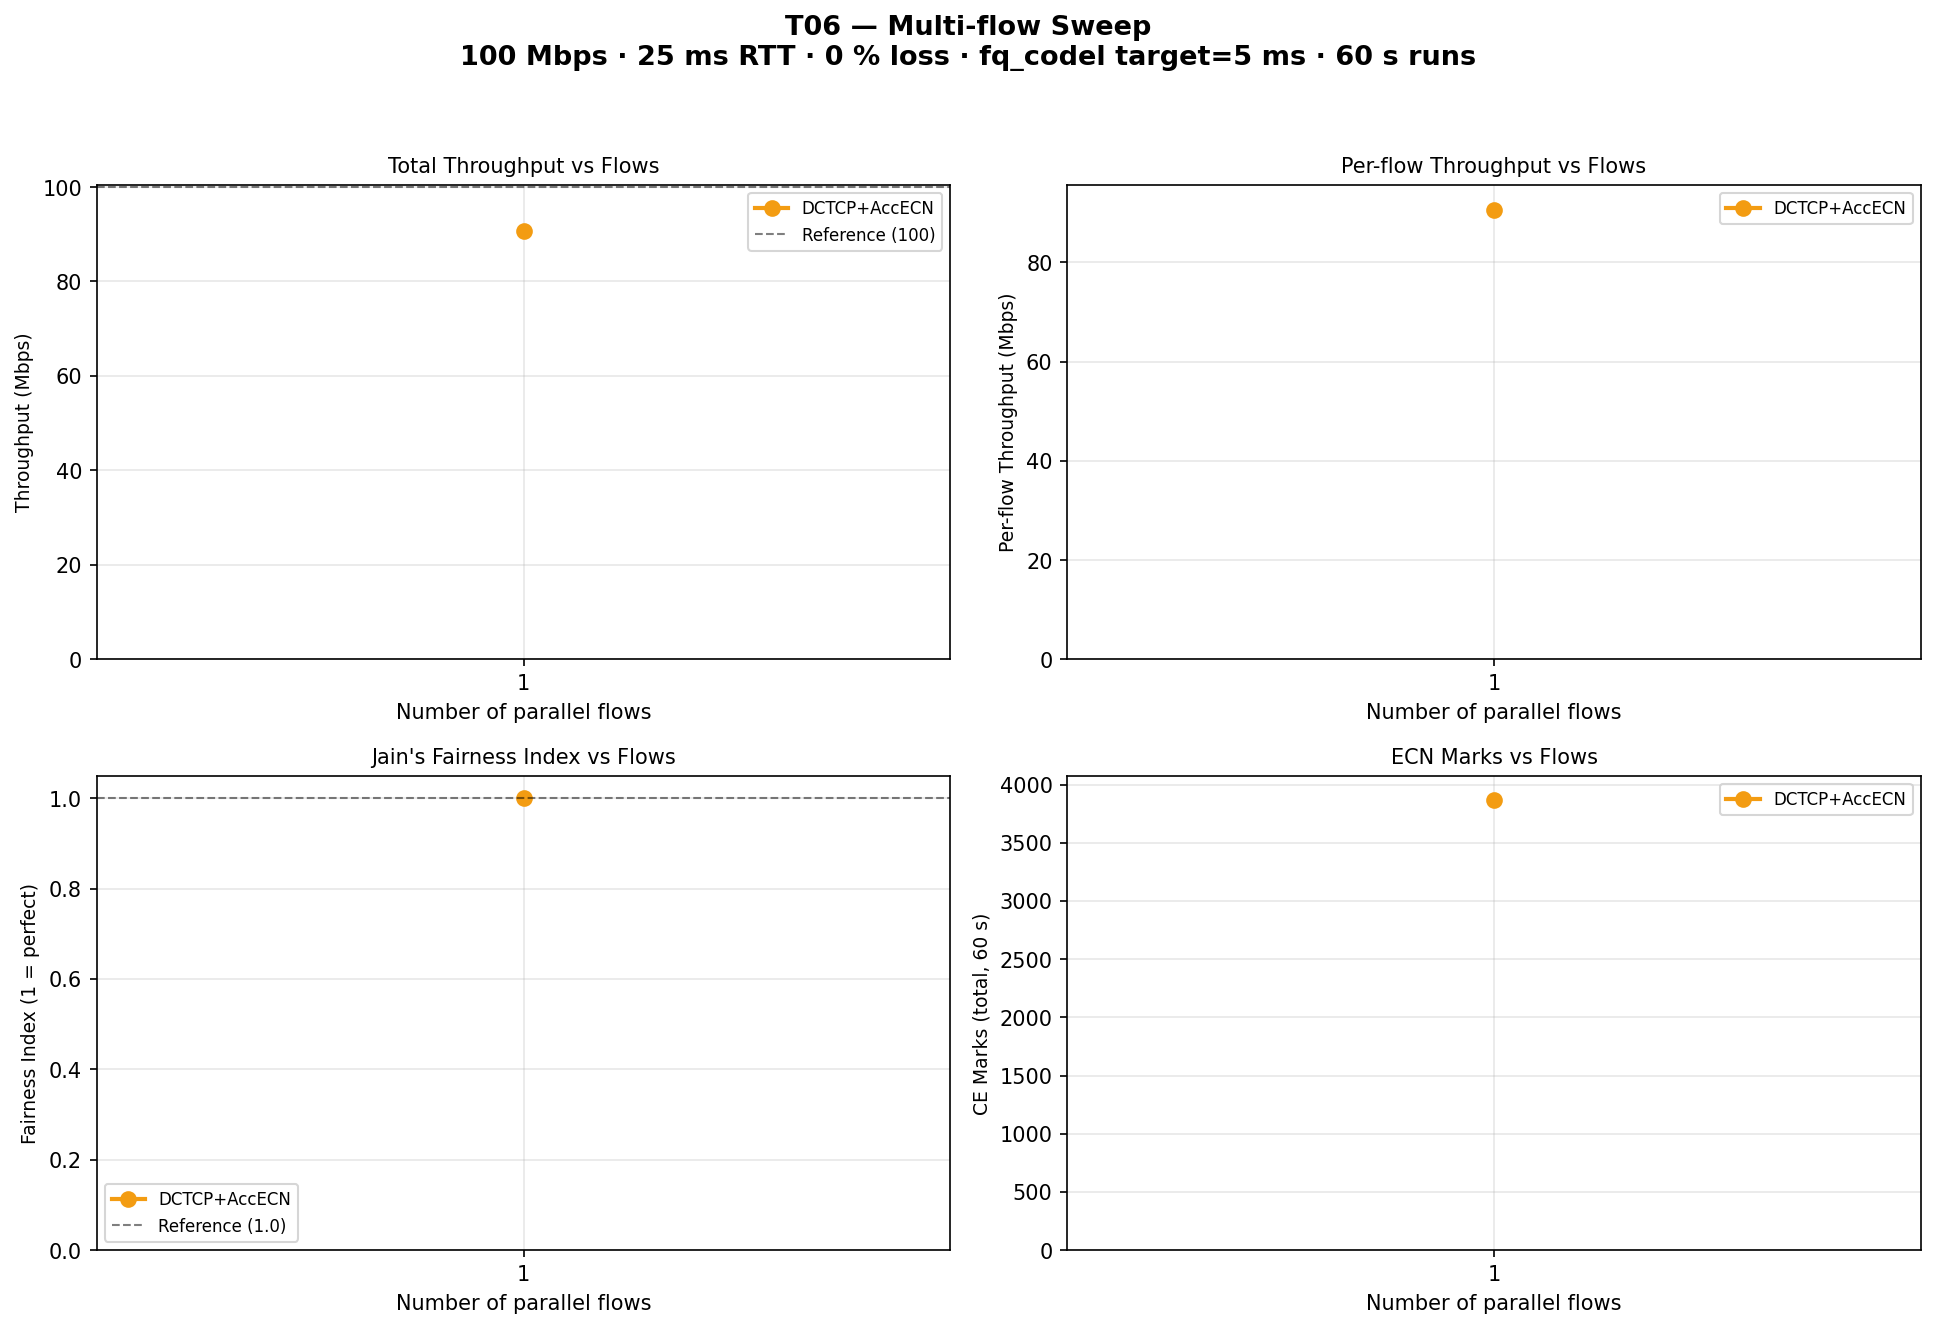
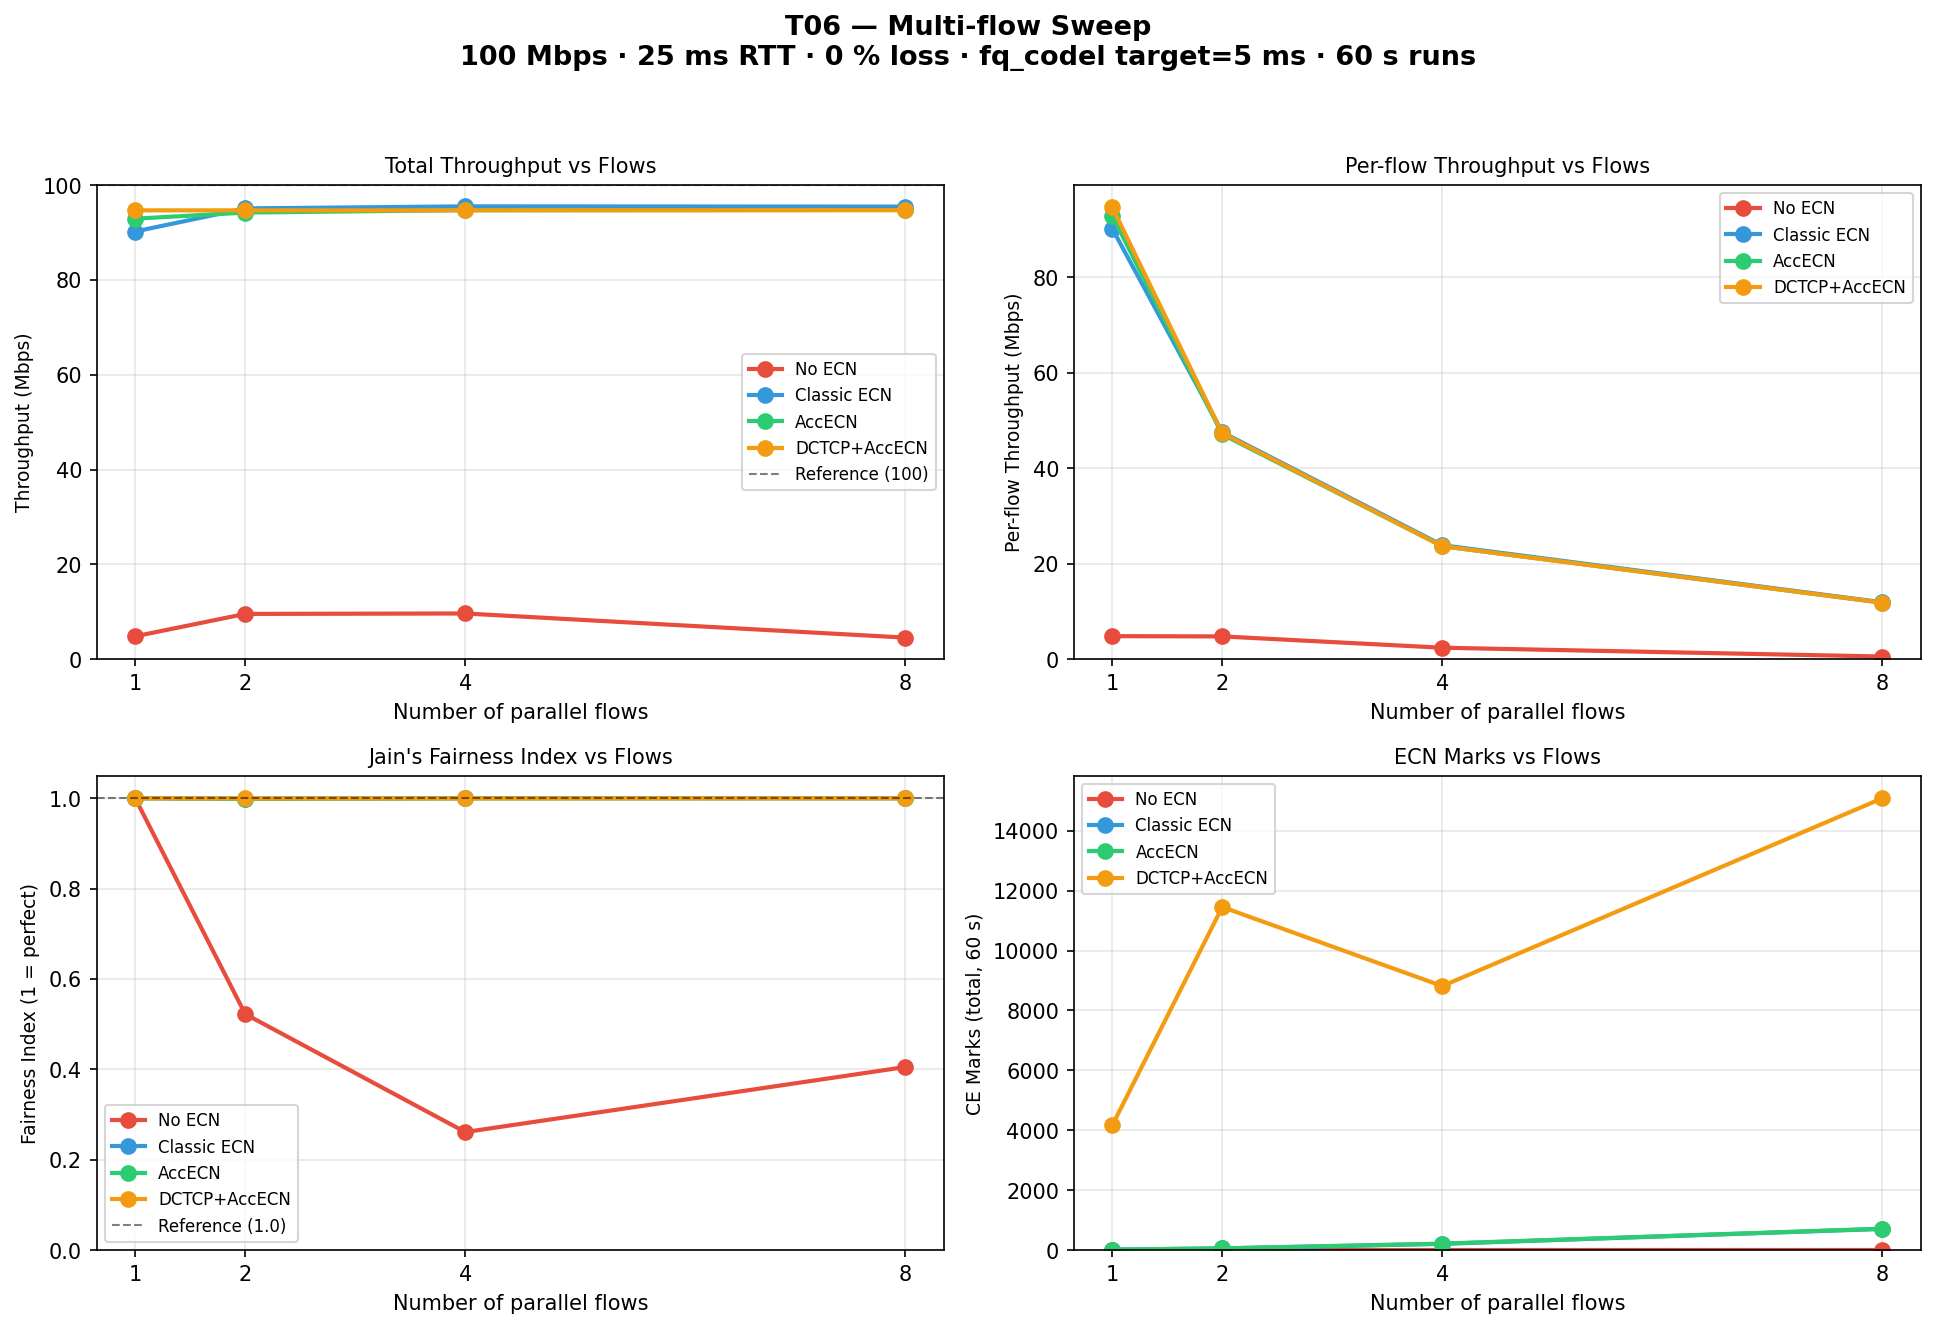
Fix T06 plot filter: include rows with buffer_limit=1000 and target=5ms
The load() filter incorrectly used 'not bl' which excluded all T06 rows
because the sweep script sets buffer_limit=1000. Only DCTCP+1-flow data
from earlier unfiltered experiments was passing through.

New filter: bl=="1000" and target=="5ms", matching T06 fixed conditions.

diff --git a/analysis/plot-t06-multiflow-sweep.py b/analysis/plot-t06-multiflow-sweep.py
@@ -36,8 +36,11 @@ def load(csv_path: Path) -> list[dict]:
             loss    = row.get("loss", "").strip()
             cc      = row.get("cc_algo", "").strip()
             bl      = row.get("buffer_limit", "").strip()
-            # T06 rows: streams > 0, no cc_algo override, no buffer_limit, no loss
-            if streams and not cc and loss in ("0%", "") and not bl:
+            target  = row.get("ecn_target", "").strip()
+            # T06 fixed conditions: buffer_limit=1000, target=5ms, no loss,
+            # no cc override, streams in {1,2,4,8}, full 60 s runs
+            if (streams and not cc and loss in ("0%", "")
+                    and bl == "1000" and target == "5ms"):
                 try:
                     if int(streams) >= 1 and float(row.get("duration_s", 0) or 0) >= 30:
                         rows.append(row)